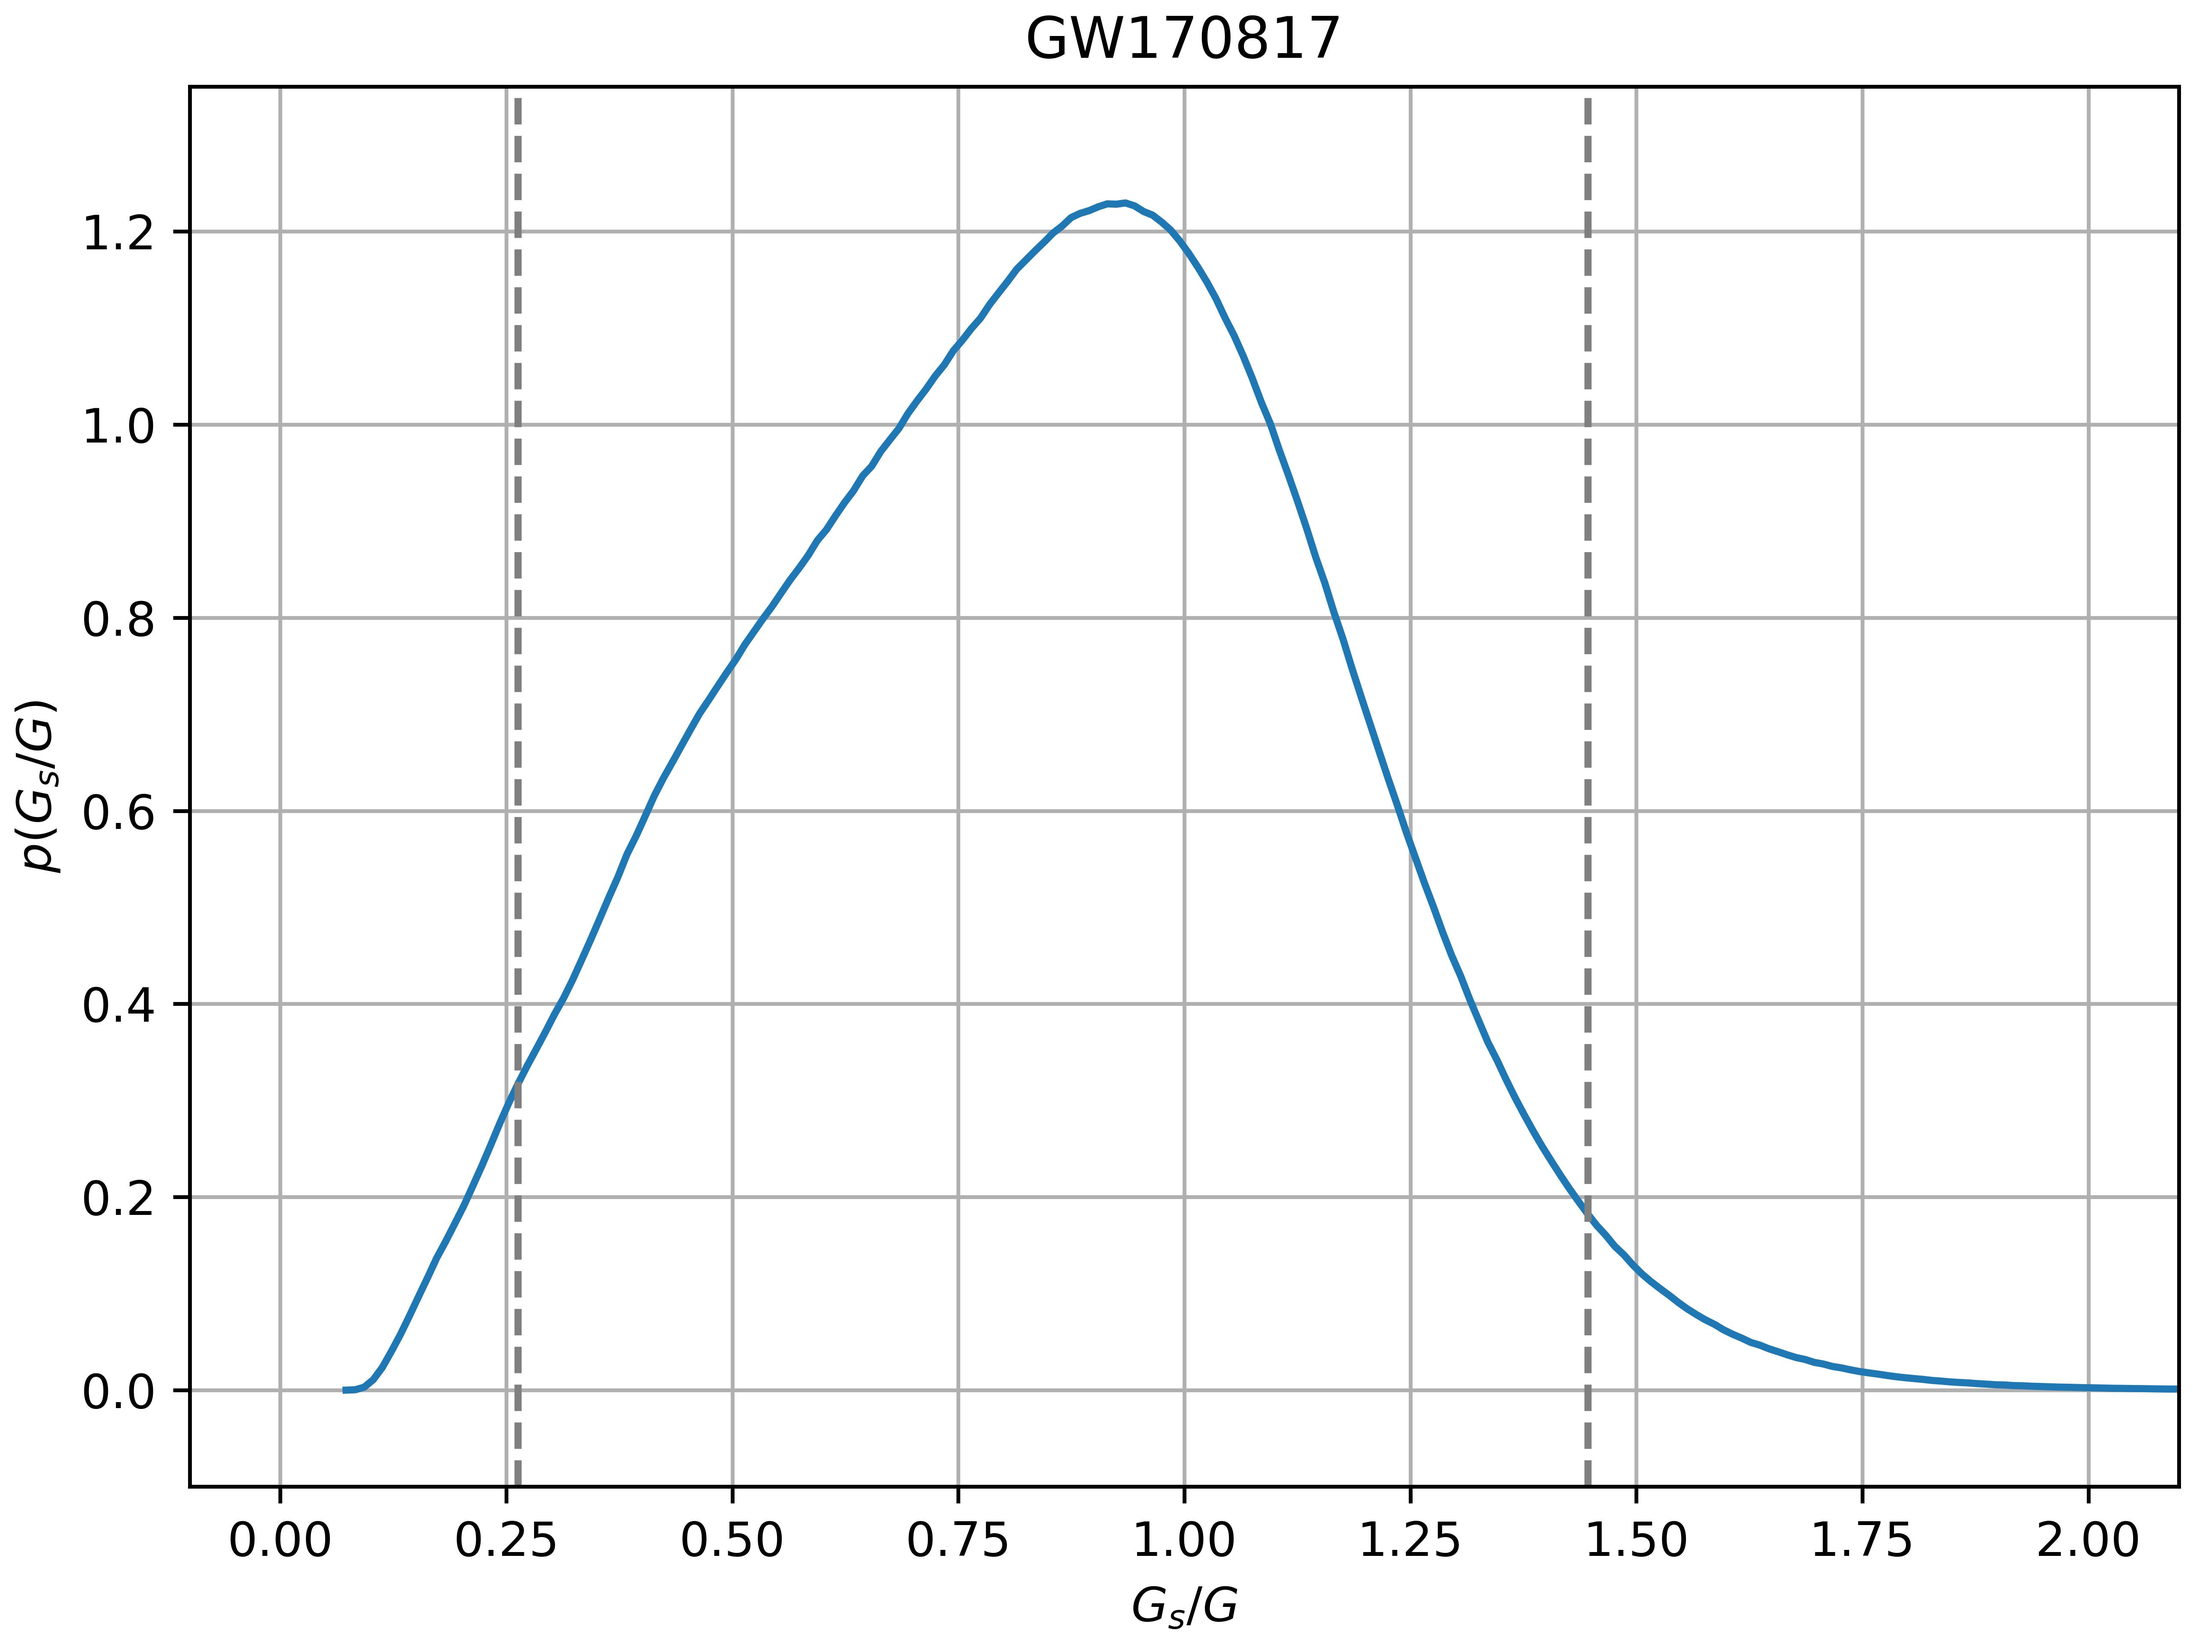
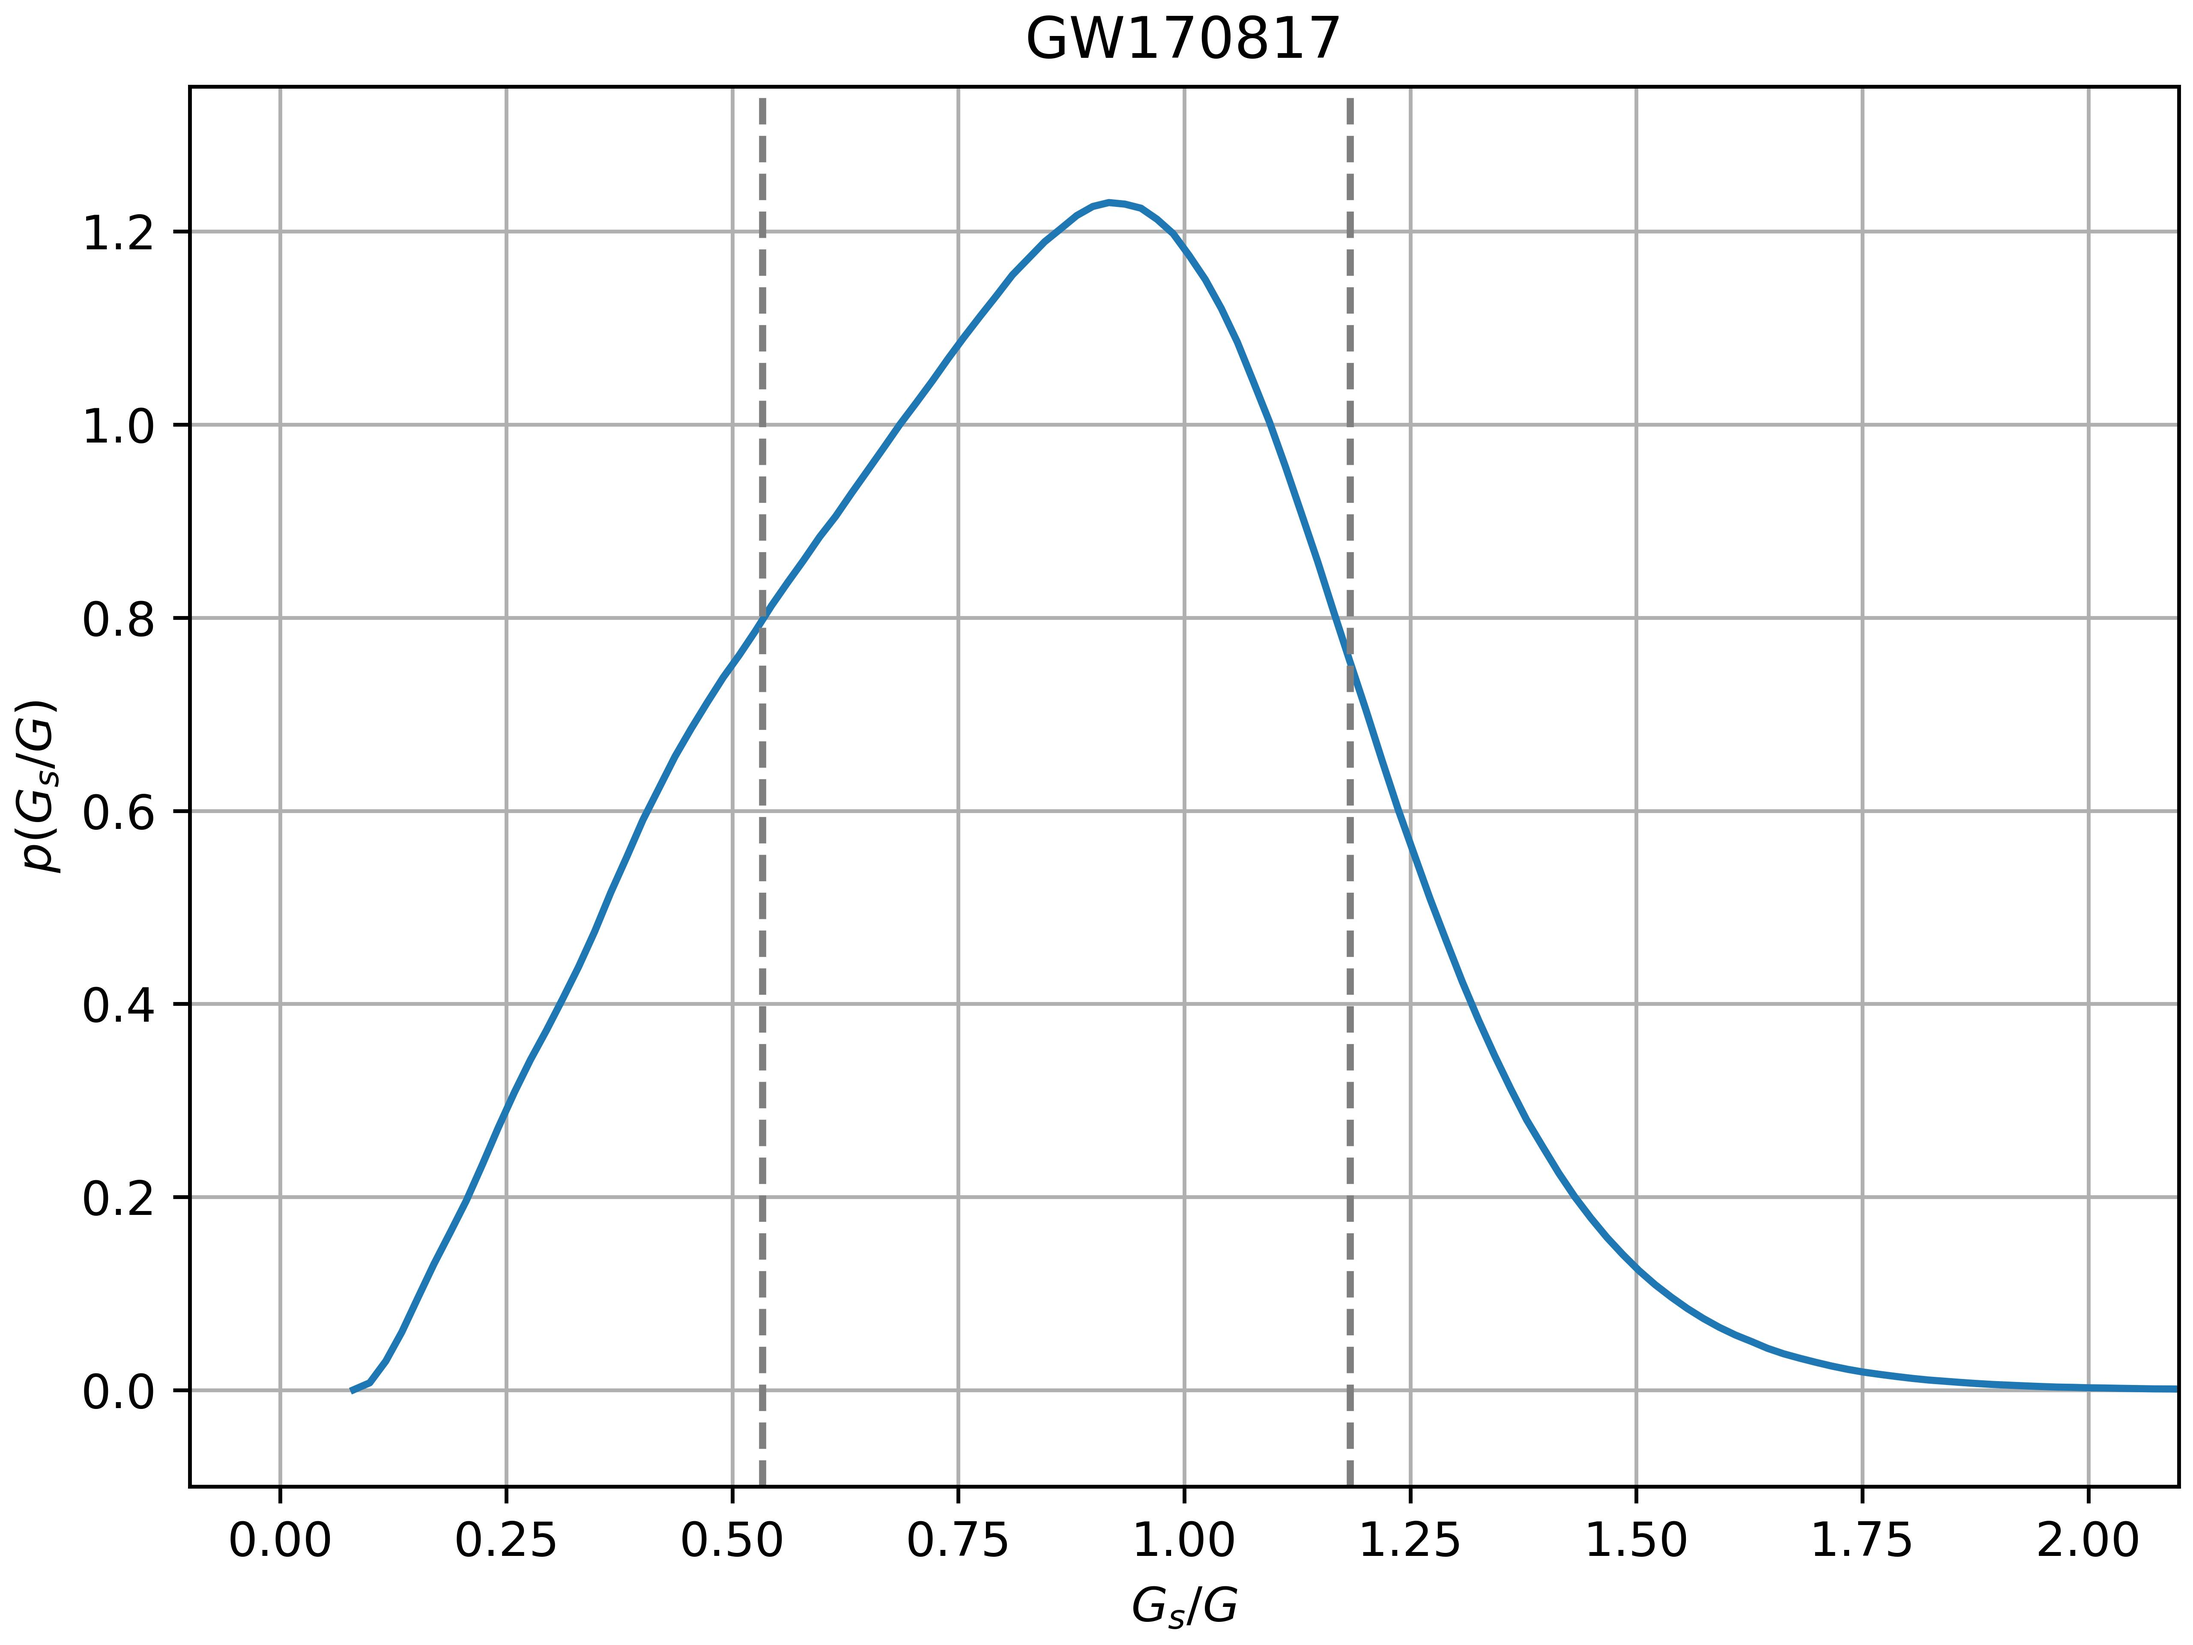
replot plot1

diff --git a/plot1.py b/plot1.py
@@ -1,27 +1,63 @@
 import h5py
 import numpy as np
-import matplotlib.image as mpimg
 import matplotlib.pyplot as plt
 
 plt.subplots(layout='constrained')
 
-f = h5py.File('GW170817_GWTC-1.hdf5','r')
+f = h5py.File('GW170817_GWTC-1.hdf5', 'r')
 dset = f['IMRPhenomPv2NRT_lowSpin_posterior']
-d_l = np.sort(dset['luminosity_distance_Mpc'])
-size = 10**8
-sample = np.sort((np.random.choice(d_l, size=size)
-                 /np.random.normal(loc=42.9, scale=3.2, size=size))**2)
-print(sample.mean(), sample.std())
-print(sample[int(size*(0.5-0.3413))], sample[int(size*(0.5+0.3413))])
-bins = int(100*(sample.max()-sample.min()))
-hist, bin_edges = np.histogram(sample, bins=bins, density=True)
-plt.plot((bin_edges[:-1]+bin_edges[1:])/2, hist)
-plt.axvline(sample[int(size*(0+0.05/2))], c='tab:grey', ls='--')
-plt.axvline(sample[int(size*(1-0.05/2))], c='tab:grey', ls='--')
+d_l = dset['luminosity_distance_Mpc']
+size = d_l.size**2
+sample = (np.random.choice(d_l, size=size)
+         /np.random.normal(loc=42.9, scale=3.2, size=size))**2
+hist, bin_edges = np.histogram(sample, bins='auto', density=True)
+print(bin_edges.size-1)
+hist, bin_edges = np.histogram(sample, bins=int(bin_edges.size/8), density=True)
+g, p_g = (bin_edges[:-1]+bin_edges[+1:])/2, hist
+
+def P_normal(p):
+    P = 1
+    for i in range(0, g.size, 1):
+        if (p_g[i+1] > p):
+            g_1 = np.interp(p, p_g[i:i+2:+1], g[i:i+2:+1])
+            P -= ((g[1:i+1]-g[:i])*(p_g[:i]+p_g[1:i+1])).sum()/2
+            P -= (g_1-g[i])*(p_g[i]+p)/2
+            break
+    for i in range(g.size-1, -1, -1):
+        if (p_g[i-1] > p):
+            g_2 = np.interp(p, p_g[i:i-2:-1], g[i:i-2:-1])
+            P -= ((g[i+1:]-g[i:-1])*(p_g[i+1:]+p_g[i:-1])).sum()/2
+            P -= (g[i]-g_2)*(p_g[i]+p)/2
+            break
+    return P, g_1, g_2
+
+P, p, n = 1, 0, 0
+while (abs(P-0.6826) >= 0.0001):
+    n += 1
+    if (P < 0.6826):
+        p -= p_g.max()/2**n
+    if (P > 0.6826):
+        p += p_g.max()/2**n
+    P, g_1, g_2 = P_normal(p)
+print(P, g_1, g_2)
+
+P, p, n = 1, 0, 0
+while (abs(P-0.95) >= 0.0001):
+    n += 1
+    if (P < 0.95):
+        p -= p_g.max()/2**n
+    if (P > 0.95):
+        p += p_g.max()/2**n
+    P, g_1, g_2 = P_normal(p)
+print(P, g_1, g_2)
+
+plt.plot(g, p_g)
+plt.axvline(g_1, c='tab:grey', ls='--')
+plt.axvline(g_2, c='tab:grey', ls='--')
 plt.title('GW170817')
 plt.xlim((-0.1, +2.1))
 plt.ylim((-0.10, +1.35))
 plt.xlabel('$G_s/G$')
 plt.ylabel('$p(G_s/G)$')
 plt.grid()
-plt.savefig('plot1.jpg', dpi=800)
+plt.show()
